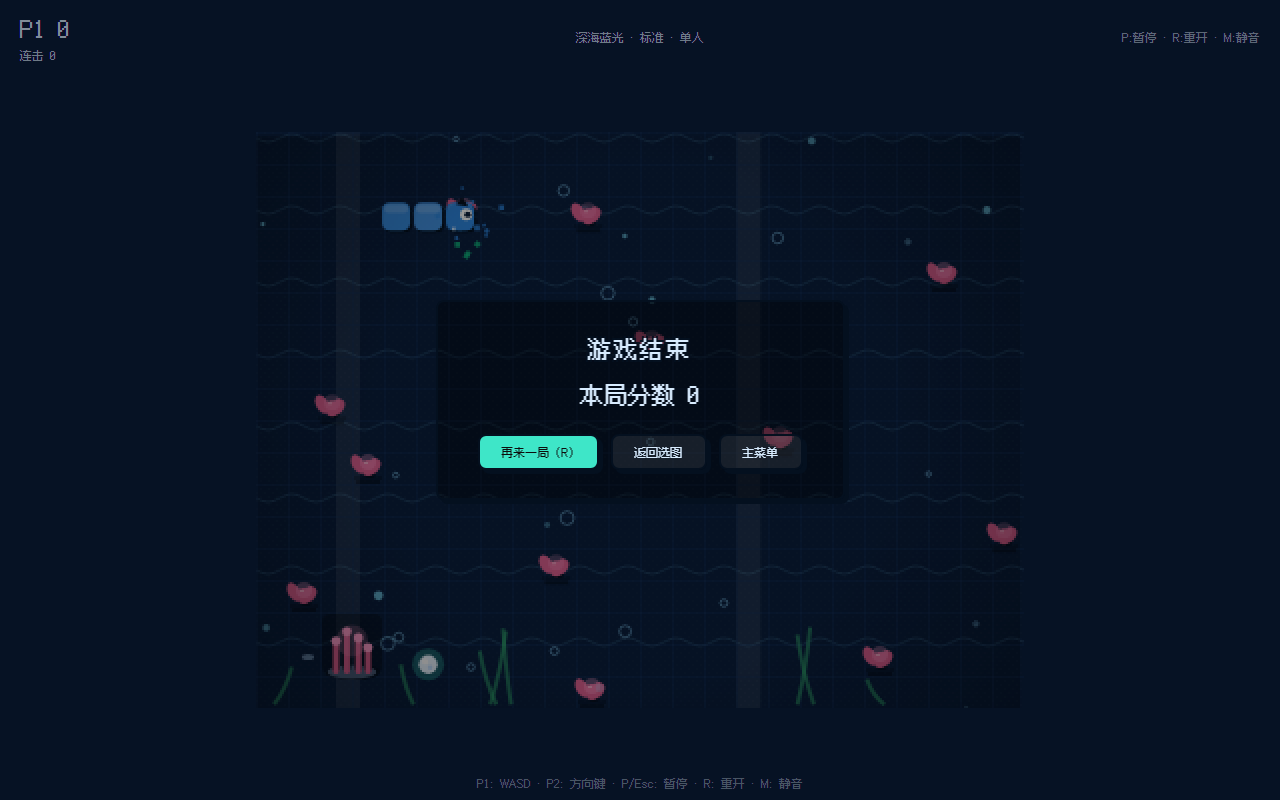
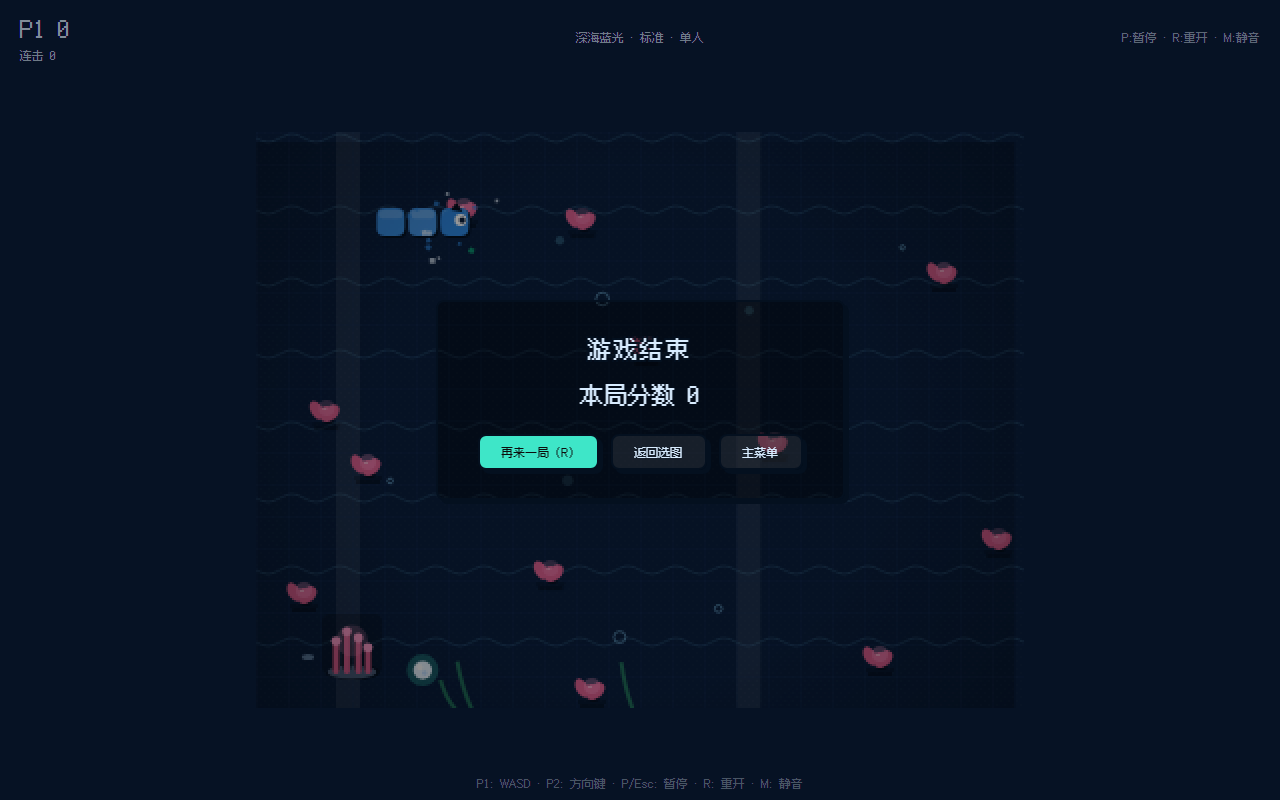
fix: 地图去杂乱四件套（地表回退程序化/装饰数量削减70%/网格线弱化/底座淡化）+ 新截图

diff --git a/src/game/themes/jungle.ts b/src/game/themes/jungle.ts
@@ -21,24 +21,16 @@ export const jungleTheme: Theme = {
   radius: 4,
   texture: { base: "leaf", dither: true, ao: 0.6 },
   bgDecor: [
-    { kind: "firefly", count: 12, periodMin: 3, periodMax: 5 },
-    { kind: "leaf", count: 16, periodMin: 6, periodMax: 10 },
-    { kind: "light", count: 8, periodMin: 8, periodMax: 12 },
+    { kind: "firefly", count: 4, periodMin: 3, periodMax: 5 },
+    { kind: "leaf", count: 3, periodMin: 6, periodMax: 10 },
+    { kind: "light", count: 2, periodMin: 8, periodMax: 12 },
   ],
   parallax: { layers: 3, depth: 4 },
   obstacleStyle: "vine",
   snakeStyle: { pattern: "stripe", head: "cat" },
   anim: { eatParticle: "leaf", dur: 300 },
   foodStyle: "berry", // docs/09：红浆果
-  // 贴图试点（docs/02 素材模式）：Kenney CC0 草地砖平铺地表
-  // 只保留低对比变体（纯草 + 1 变体 + 过渡），避免地表"太花"（用户反馈）
-  sprites: {
-    sheet: "roguelike",
-    bgTiles: [
-      { x: 11, y: 11 },
-      { x: 0, y: 7 },
-      { x: 19, y: 12 },
-    ],
-  },
+  // 素材贴图模式暂缓：草地砖两次反馈"太花/杂乱"，回退程序化深色底纹（对比度最干净）
+  // sprites 机制保留（src/render/sprites.ts），后续找到低对比素材再启用
   audio: { bgm: { tempo: 110, scale: "C-major" }, ambient: "insects" },
 }

diff --git a/src/render/decor.test.ts b/src/render/decor.test.ts
@@ -7,10 +7,10 @@ import { jungleMap } from "../game/maps/jungle"
 import { jungleTheme } from "../game/themes/jungle"
 
 describe("decor", () => {
-  it("装饰实例数在 20~60 范围（docs/02 1.4）", () => {
+  it("装饰实例数在 8~40 范围（docs/02 1.4，用户反馈后下调）", () => {
     const decor = generateDecor(jungleMap, jungleTheme)
-    expect(decor.length).toBeGreaterThanOrEqual(20)
-    expect(decor.length).toBeLessThanOrEqual(60)
+    expect(decor.length).toBeGreaterThanOrEqual(8)
+    expect(decor.length).toBeLessThanOrEqual(40)
   })
 
   it("确定性：同 seed 生成相同装饰", () => {

diff --git a/src/game/themes/dungeon.ts b/src/game/themes/dungeon.ts
@@ -21,9 +21,9 @@ export const dungeonTheme: Theme = {
   radius: 4,
   texture: { base: "stone", dither: true, ao: 0.8 },
   bgDecor: [
-    { kind: "torch", count: 6, periodMin: 0.7, periodMax: 0.9 },
-    { kind: "dust", count: 18, periodMin: 10, periodMax: 16 },
-    { kind: "bat", count: 3, periodMin: 8, periodMax: 14 },
+    { kind: "torch", count: 2, periodMin: 0.7, periodMax: 0.9 },
+    { kind: "dust", count: 6, periodMin: 10, periodMax: 16 },
+    { kind: "bat", count: 1, periodMin: 8, periodMax: 14 },
   ],
   parallax: { layers: 3, depth: 5 },
   obstacleStyle: "stone",

diff --git a/src/game/themes/deepsea.ts b/src/game/themes/deepsea.ts
@@ -21,9 +21,9 @@ export const deepseaTheme: Theme = {
   radius: 4,
   texture: { base: "wave", dither: true, ao: 0.6 },
   bgDecor: [
-    { kind: "bubble", count: 18, periodMin: 4, periodMax: 8 },
-    { kind: "kelp", count: 8, periodMin: 3, periodMax: 5 },
-    { kind: "plankton", count: 10, periodMin: 2, periodMax: 4 },
+    { kind: "bubble", count: 6, periodMin: 4, periodMax: 8 },
+    { kind: "kelp", count: 3, periodMin: 3, periodMax: 5 },
+    { kind: "plankton", count: 3, periodMin: 2, periodMax: 4 },
   ],
   parallax: { layers: 3, depth: 4 },
   obstacleStyle: "coral",

diff --git a/src/render/entities.ts b/src/render/entities.ts
@@ -30,9 +30,9 @@ export function drawEntityAo(
 ): void {
   const b = entityBounds(e)
   const a = theme.texture.ao
-  // 底座填充：覆盖全部碰撞格，保证碰撞区可见（像素游戏标准做法）
+  // 底座填充：覆盖全部碰撞格，保证碰撞区可见（淡化为 0.2，避免"斑驳"）
   ctx.fillStyle = "#000000"
-  ctx.globalAlpha = 0.28
+  ctx.globalAlpha = 0.2
   ctx.beginPath()
   ctx.roundRect(b.x + 1, b.y + 1, b.w - 2, b.h - 2, 4)
   ctx.fill()

diff --git a/src/game/themes/geometry.ts b/src/game/themes/geometry.ts
@@ -21,8 +21,8 @@ export const geometryTheme: Theme = {
   radius: 4,
   texture: { base: "gradient", dither: true, ao: 0.4 },
   bgDecor: [
-    { kind: "geo", count: 10, periodMin: 4, periodMax: 8 },
-    { kind: "orbit", count: 14, periodMin: 6, periodMax: 10 },
+    { kind: "geo", count: 4, periodMin: 4, periodMax: 8 },
+    { kind: "orbit", count: 5, periodMin: 6, periodMax: 10 },
   ],
   parallax: { layers: 3, depth: 3 },
   obstacleStyle: "prism",

diff --git a/src/render/staticLayer.ts b/src/render/staticLayer.ts
@@ -59,9 +59,9 @@ export function renderStaticLayer(
     drawTexture(ctx, theme, w, h, rng)
   }
 
-  // ---- 网格线（弱化：主题色半透明，docs/02 3.2）----
+  // ---- 网格线（弱化：低对比，docs/02 3.2；用户反馈"杂乱"后从 0.35 降至 0.18）----
   ctx.strokeStyle = theme.palette.grid
-  ctx.globalAlpha = 0.35
+  ctx.globalAlpha = 0.18
   ctx.lineWidth = 1
   ctx.beginPath()
   for (let x = 0; x <= map.grid.w; x++) {

diff --git a/src/debug/validate.ts b/src/debug/validate.ts
@@ -17,8 +17,8 @@ export const STYLE_RULES = {
   shadowOffset: 4,
   animDurMin: 150,
   animDurMax: 450,
-  decorTotalMin: 20,
-  decorTotalMax: 60,
+  decorTotalMin: 8,  // 用户反馈"杂乱"：装饰数量下调（docs/02 1.4 同步）
+  decorTotalMax: 40,
   parallaxLayers: 3,
 } as const
 
